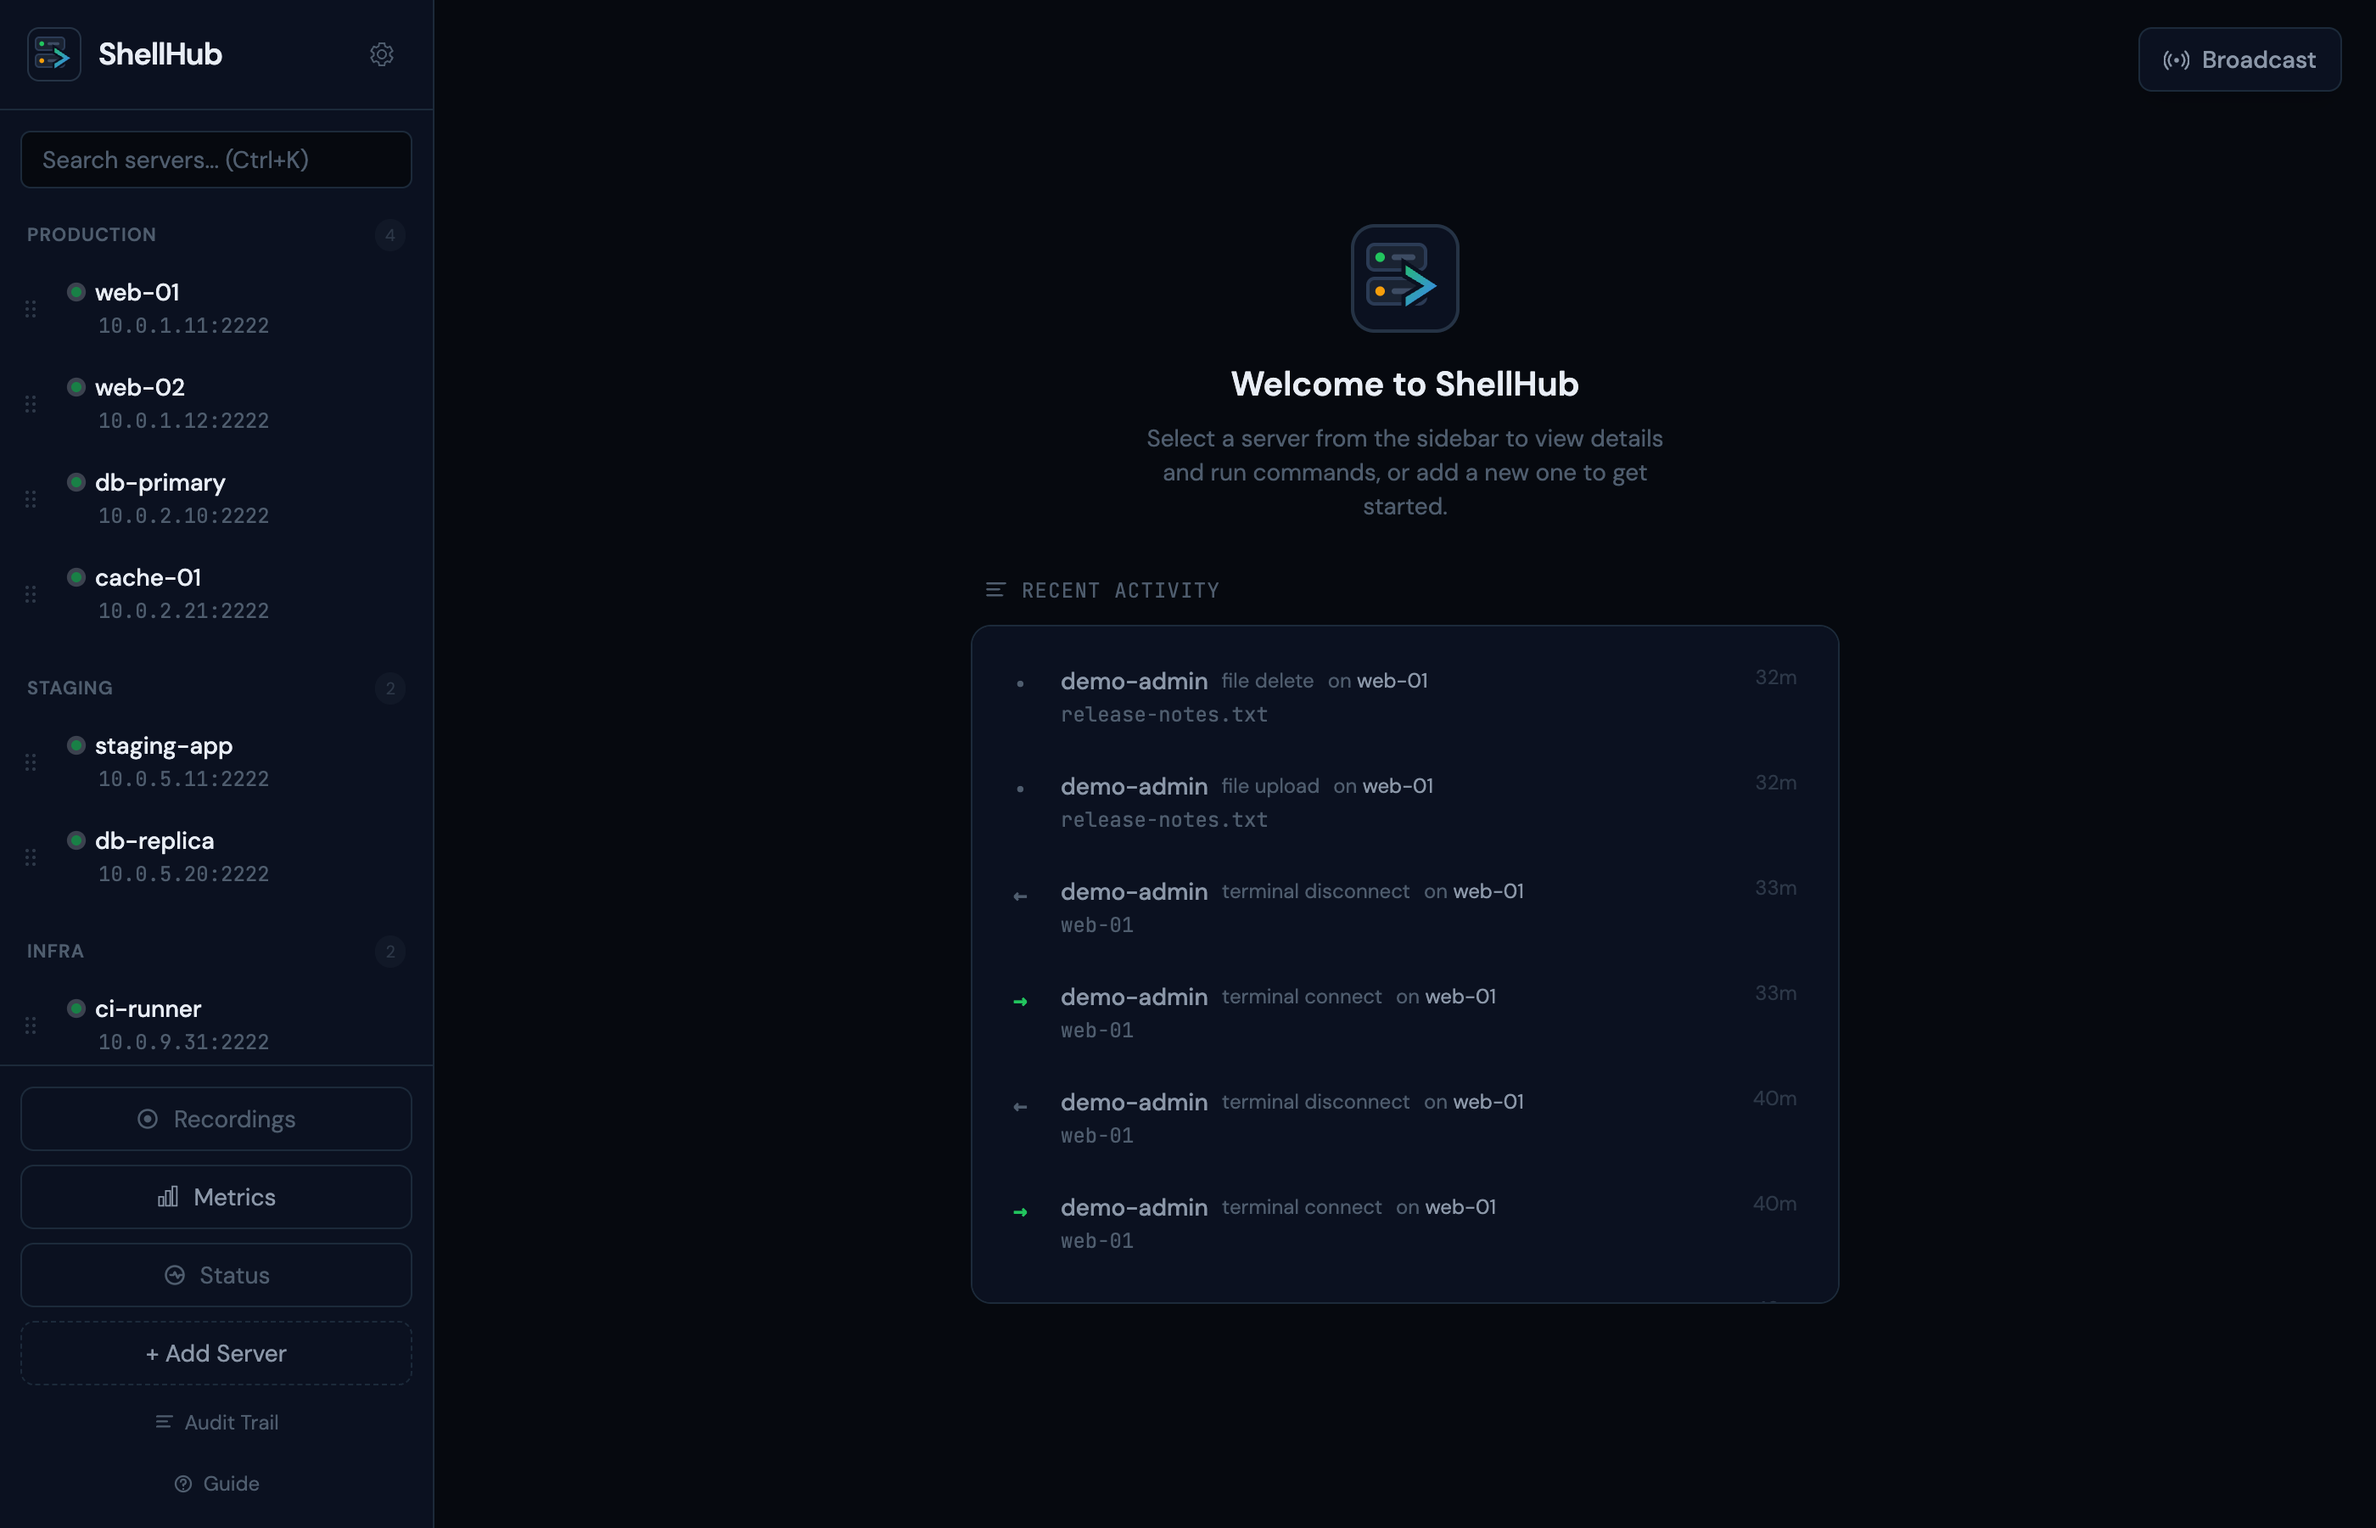
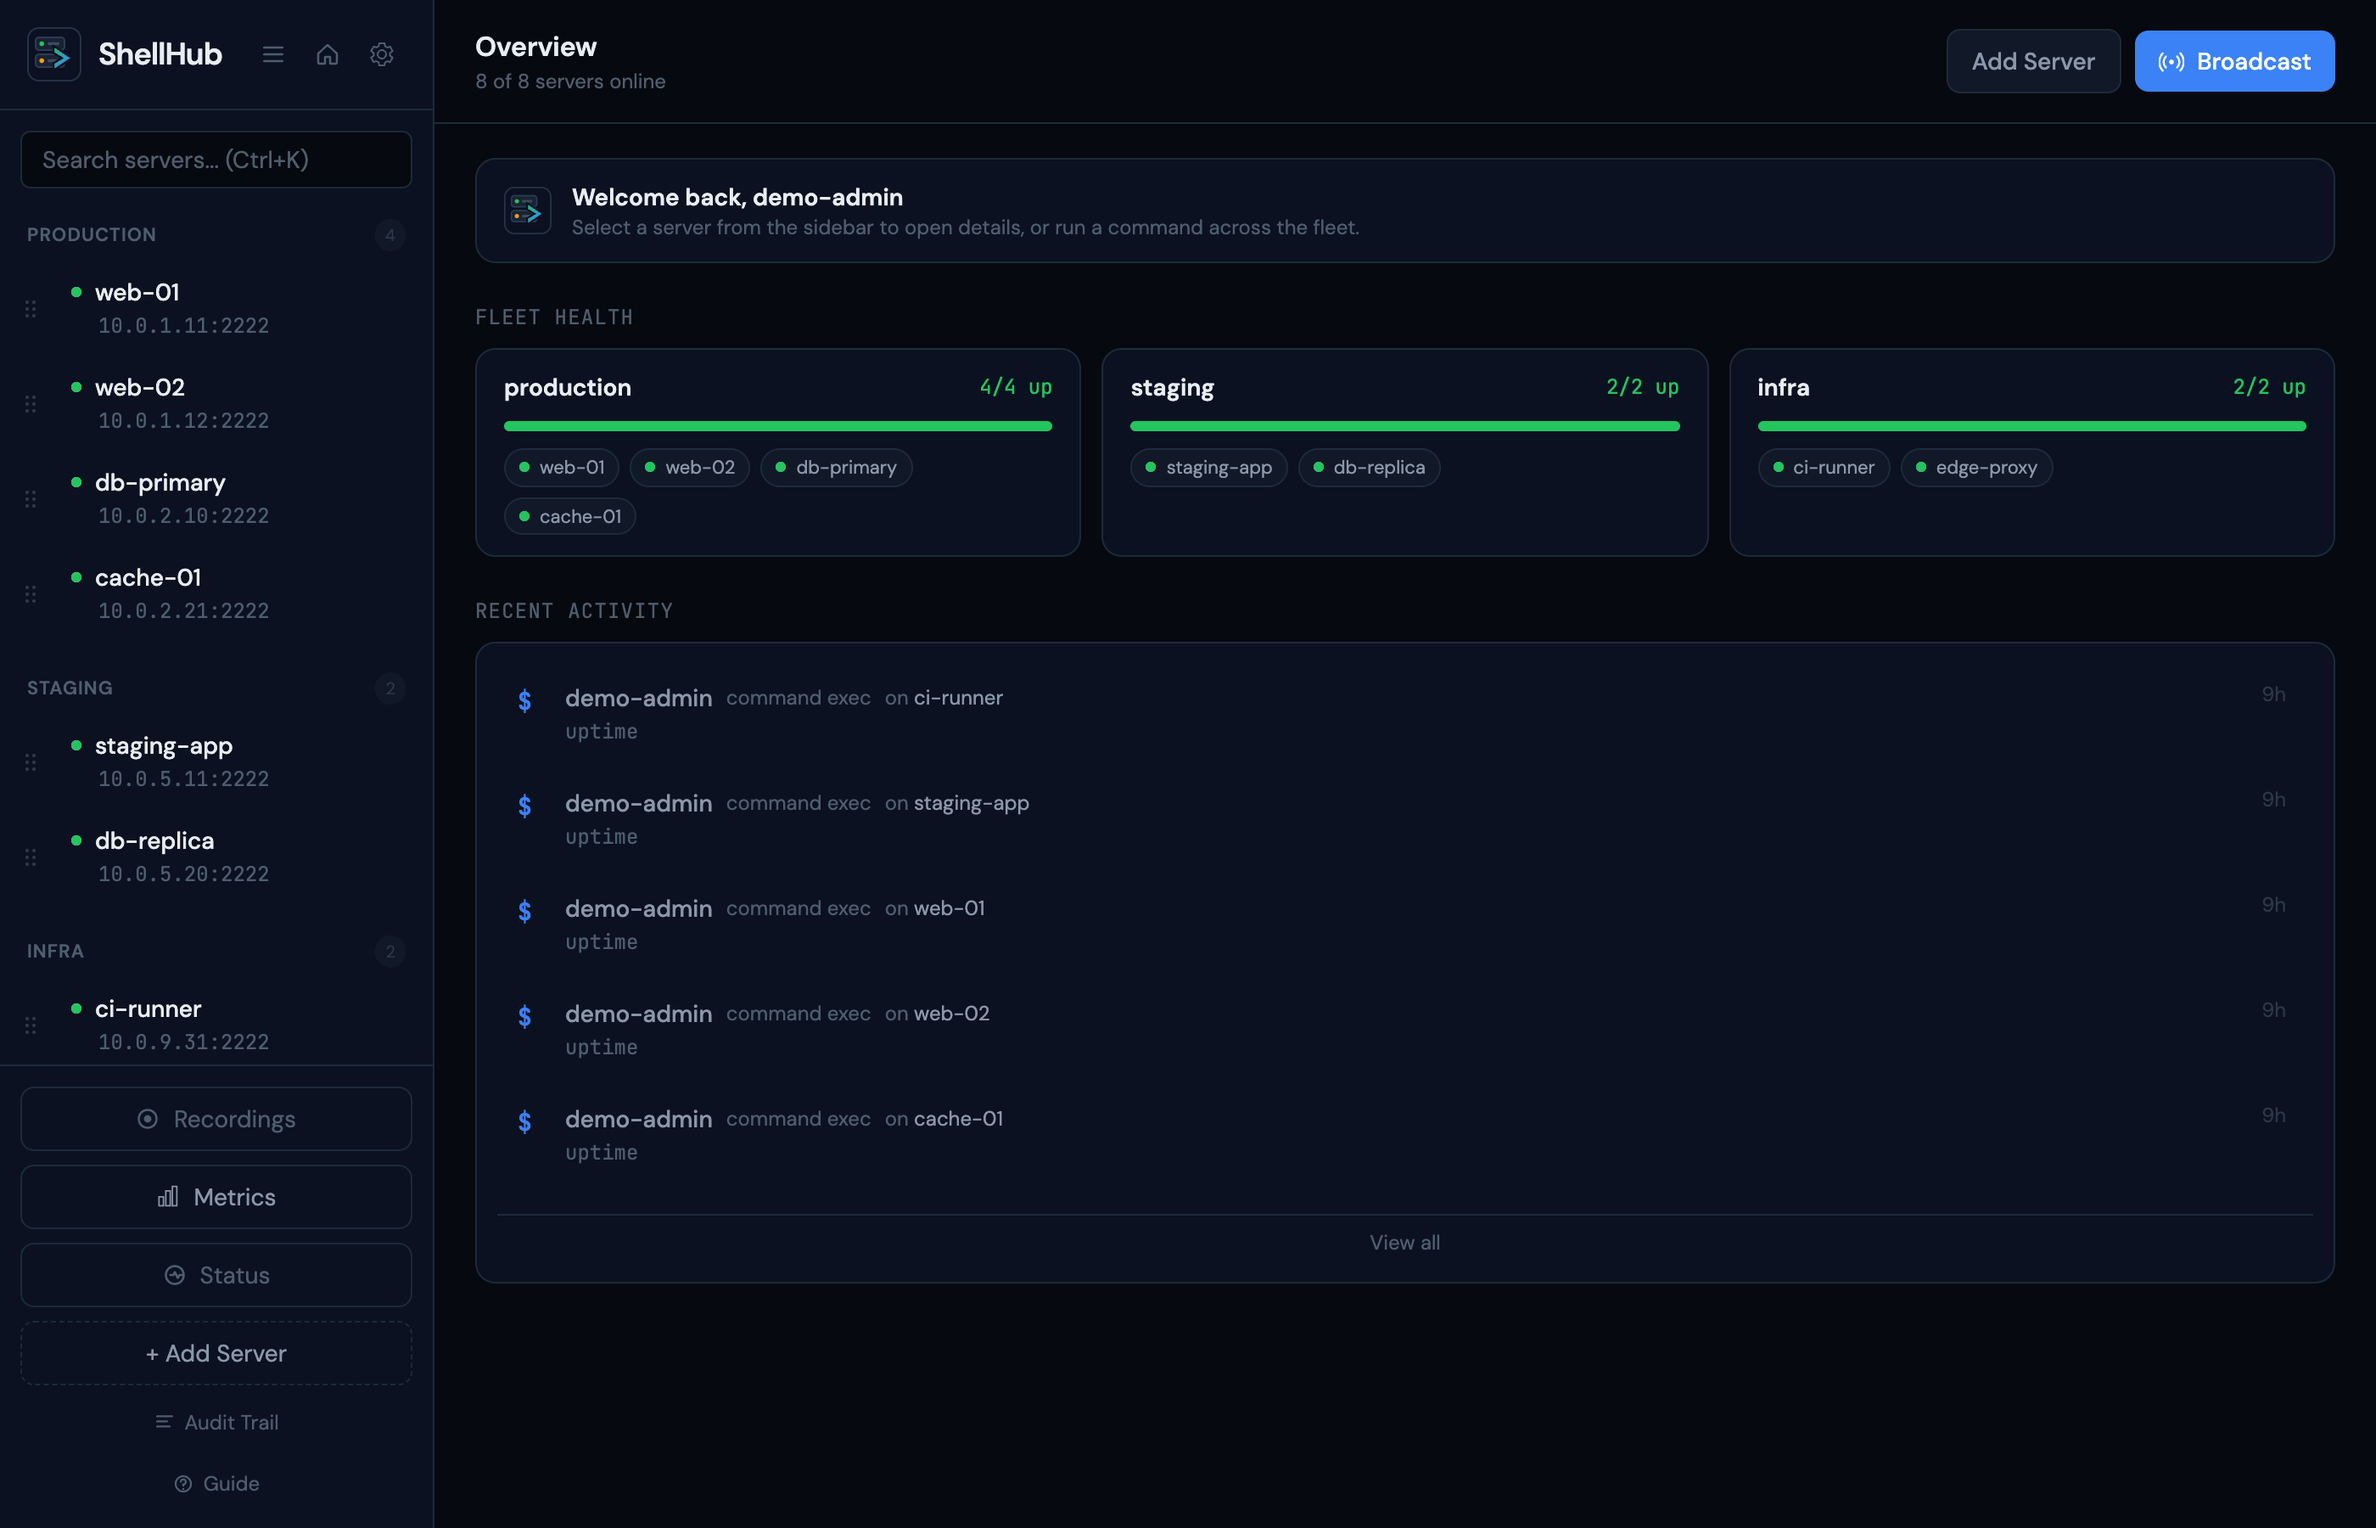
feat: install.sh installs ShellHub.app on macOS; refresh docs and screenshots
- macOS install script now also installs the double-clickable app to
  Applications with quarantine cleared; SHELLHUB_CLI=1 keeps binary-only
- Docs cover the new install behavior, key passphrase field and env
  overrides; README notes fleet health, pinning and list density
- Five screenshots recaptured for the overhauled UI

diff --git a/docs/DOCUMENTATION.md b/docs/DOCUMENTATION.md
@@ -41,7 +41,9 @@ curl -fsSL https://raw.githubusercontent.com/shivarchit/shellhub/main/install.sh
 irm https://raw.githubusercontent.com/shivarchit/shellhub/main/install.ps1 | iex
 ```
 
-Both scripts honor two environment variables: `SHELLHUB_VERSION` pins a specific release (for example `v0.1.0`), and `SHELLHUB_INSTALL_DIR` overrides the install location. The shell script installs to `/usr/local/bin` when writable, otherwise `~/.local/bin`; the PowerShell script installs to `%LOCALAPPDATA%\ShellHub` and adds it to your user PATH. Prefer a packaged installer? Use the per-platform steps below.
+On macOS the script installs two things: the `shellhub` CLI binary on your PATH, and the double-clickable **ShellHub.app** in `/Applications` (or `~/Applications` when `/Applications` is not writable) with the Gatekeeper quarantine flag already cleared. Launch it from Spotlight like any other app. Set `SHELLHUB_CLI=1` to skip the app and install only the binary.
+
+Both scripts honor these environment variables: `SHELLHUB_VERSION` pins a specific release (for example `v0.2.1`), `SHELLHUB_INSTALL_DIR` overrides the binary location, and `SHELLHUB_APP_DIR` overrides the macOS app location. The shell script installs the binary to `/usr/local/bin` when writable, otherwise `~/.local/bin`; the PowerShell script installs to `%LOCALAPPDATA%\ShellHub` and adds it to your user PATH. Prefer a packaged installer? Use the per-platform steps below.
 
 ### macOS
 
@@ -156,6 +158,8 @@ servers:
     group: "Production"
     auth_type: "password"          # or "key" for SSH key auth
     private_key: ""                # PEM-encoded private key (when auth_type is "key")
+    # With auth_type "key", the password field is optional: it unlocks an
+    # encrypted (passphrase-protected) key and doubles as password-auth fallback.
     quick_commands:
       - name: "Flush Cache"
         command: "sudo /opt/aem/crx-quickstart/bin/flush-cache.sh"

diff --git a/README.md b/README.md
@@ -25,7 +25,7 @@ A lightweight web-based SSH client and server management tool. Connect to your s
 
 <img src="docs/screens/dashboard.png" alt="Server dashboard" width="100%">
 
-Server dashboard with live status, quick commands, and activity feed.
+Server dashboard with per-group fleet health, live status, quick commands, and activity feed. Pin favorite servers to the top of the sidebar and switch between comfortable and compact list density.
 
 ## Features
 
@@ -47,7 +47,7 @@ Full xterm.js terminal in the browser — no local SSH client needed.
 - Scrollback search with regex, case sensitivity, and match navigation (`Ctrl+F`)
 - Session recording in asciicast v2 format, with a built-in player (play/pause, 0.5x-4x speed, seek, idle-skip)
 - Copy-on-select and smart `Ctrl+C` (copies when text is selected, sends SIGINT otherwise)
-- Password and SSH private-key authentication
+- Password and SSH private-key authentication — load a `.pem` file straight from disk, encrypted keys unlocked with a passphrase
 
 </td>
 </tr>
@@ -156,6 +156,7 @@ Per-user permissions enforced by the API, not hidden by the UI.
 Know your fleet's state before anyone files a ticket.
 
 - Live CPU / memory / disk / load average widgets per server
+- Fleet health cards per server group on the dashboard
 - Uptime %, latency, and activity charts (24h / 7d / 30d)
 - Background ping with a configurable interval, recorded to ping history
 - Lightweight CSS/SVG charts — zero external charting libraries
@@ -192,6 +193,8 @@ curl -fsSL https://raw.githubusercontent.com/shivarchit/shellhub/main/install.sh
 # Windows (PowerShell)
 irm https://raw.githubusercontent.com/shivarchit/shellhub/main/install.ps1 | iex
 ```
+
+On macOS this installs both the `shellhub` CLI and the double-clickable **ShellHub.app** in Applications, ready to launch from Spotlight.
 
 Or manually:
 
